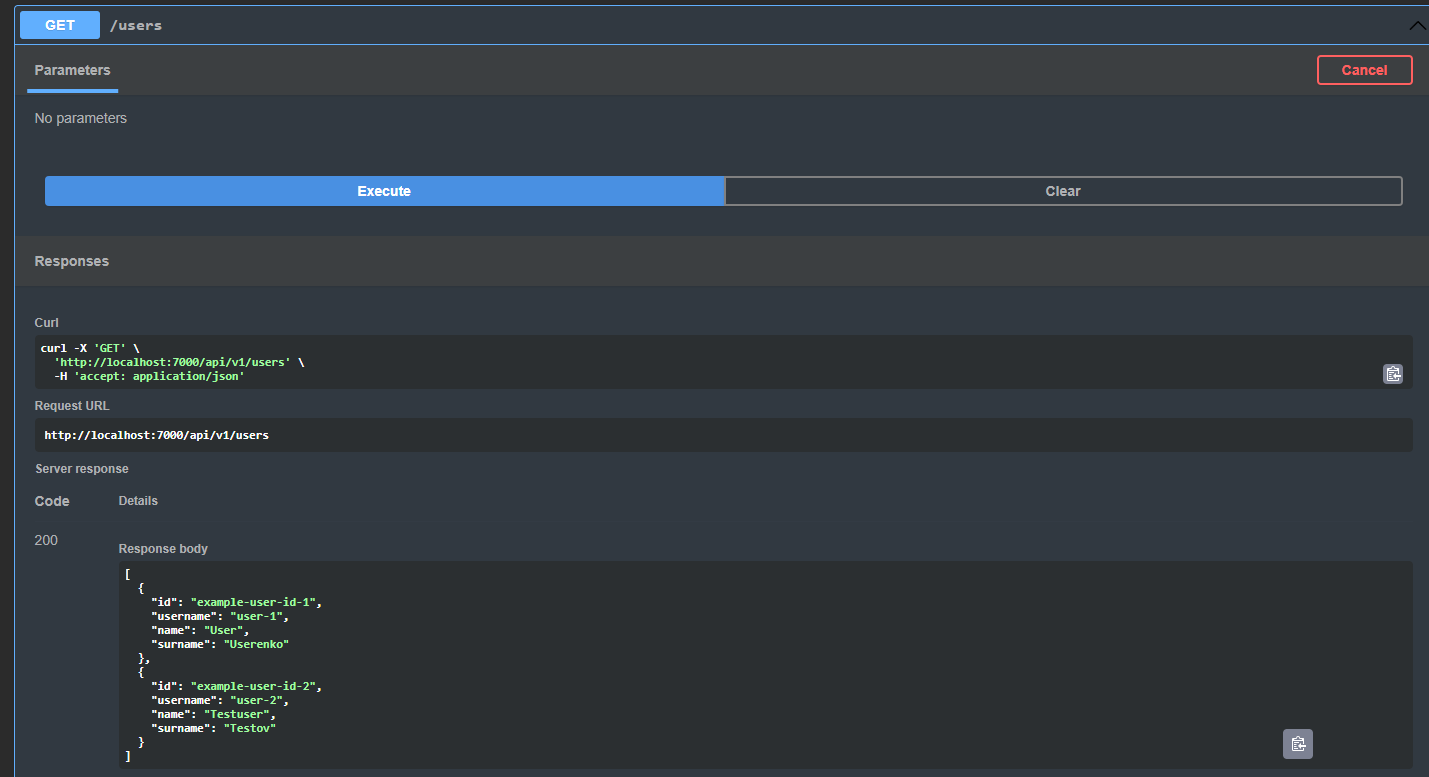
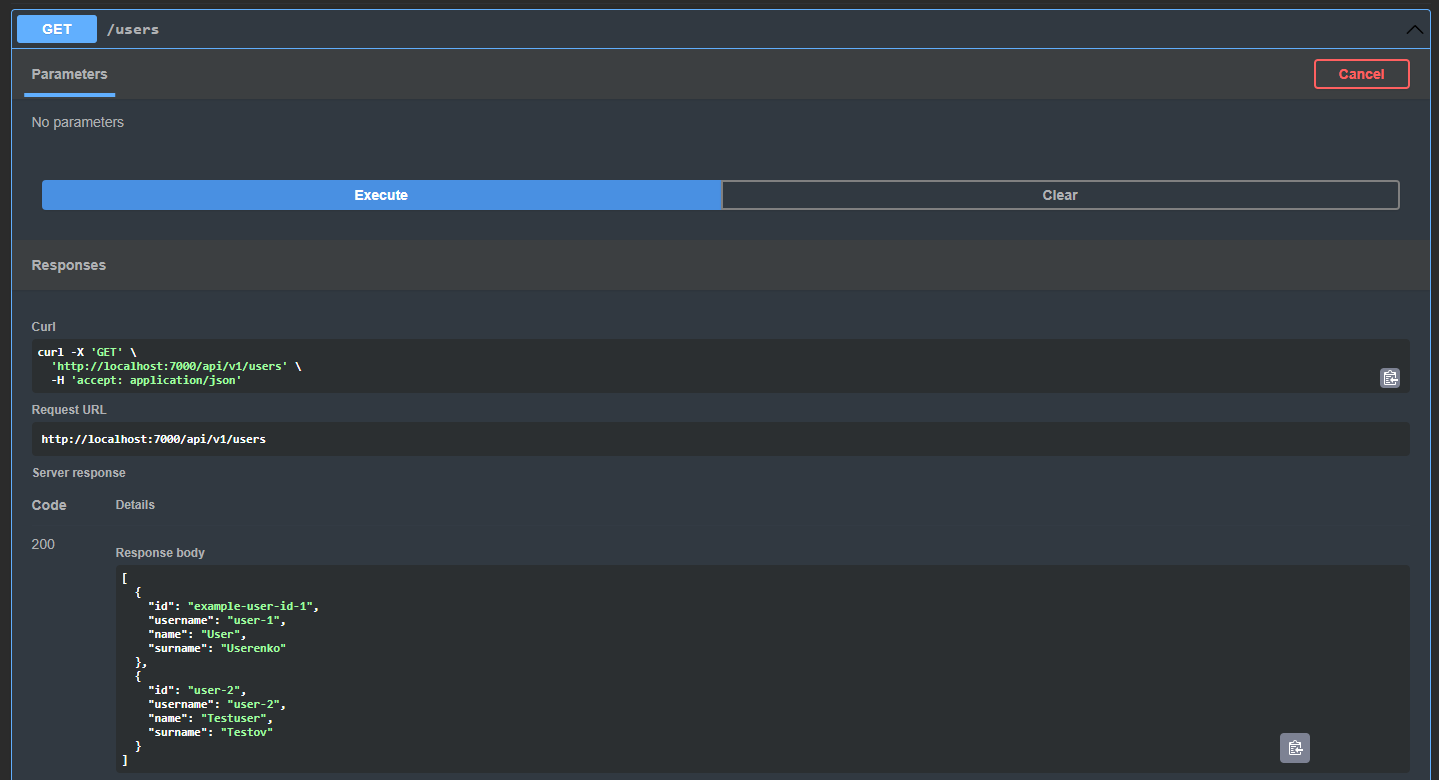
Latest 1.0.0 correction according to information received

diff --git a/src/test/java/test/comparusua/api/impl/BaseContextTest.java b/src/test/java/test/comparusua/api/impl/BaseContextTest.java
@@ -15,18 +15,20 @@ import java.sql.Connection;
 import java.sql.DriverManager;
 import java.sql.PreparedStatement;
 import java.sql.SQLException;
+import java.util.List;
 
 @Slf4j
 @ActiveProfiles({"test"})
 public class BaseContextTest {
 
     public static final String POSTGRES_LATEST_VERSION = "postgres:latest";
-    public static final int DEF_POSTGRES_PORT = 5432;
+    public static final int DEFAULT_POSTGRES_PORT = 5432;
 
     private static final String dbName1 = "data-base-1-test";
     private static final String table1 = "users";
     private static final String user1 = "testuser";
     private static final String pass1 = "testpass";
+
     private static final String dbName2 = "data-base-2-test";
     private static final String table2 = "user_table";
     private static final String user2 = "testuser";
@@ -38,9 +40,9 @@ public class BaseContextTest {
             .withUsername(user1)
             .withPassword(pass1)
             .withEnv("POSTGRES_PASSWORD", pass1)
-            .withExposedPorts(DEF_POSTGRES_PORT)
+            .withExposedPorts(DEFAULT_POSTGRES_PORT)
             .withCreateContainerCmdModifier(cmd -> cmd.withHostConfig(
-                    new HostConfig().withPortBindings(new PortBinding(Ports.Binding.bindPort(5433), new ExposedPort(DEF_POSTGRES_PORT)))
+                    new HostConfig().withPortBindings(new PortBinding(Ports.Binding.bindPort(5433), new ExposedPort(DEFAULT_POSTGRES_PORT)))
             ));
 
     @Container
@@ -49,9 +51,9 @@ public class BaseContextTest {
             .withUsername(user2)
             .withPassword(pass2)
             .withEnv("POSTGRES_PASSWORD", pass2)
-            .withExposedPorts(DEF_POSTGRES_PORT)
+            .withExposedPorts(DEFAULT_POSTGRES_PORT)
             .withCreateContainerCmdModifier(cmd -> cmd.withHostConfig(
-                    new HostConfig().withPortBindings(new PortBinding(Ports.Binding.bindPort(5434), new ExposedPort(DEF_POSTGRES_PORT)))
+                    new HostConfig().withPortBindings(new PortBinding(Ports.Binding.bindPort(5434), new ExposedPort(DEFAULT_POSTGRES_PORT)))
             ));
 
     @BeforeAll
@@ -69,26 +71,38 @@ public class BaseContextTest {
 
     private static void initializeDatabase() {
         try {
-            Class.forName("org.postgresql.Driver");
-
             String url1 = postgresContainer1.getJdbcUrl();
             String url2 = postgresContainer2.getJdbcUrl();
 
-            try (Connection connection1 = DriverManager.getConnection(url1, user1, pass1);
-                 Connection connection2 = DriverManager.getConnection(url2, user2, pass2)) {
+            try (Connection connection1 = DriverManager.getConnection(url1, user1, pass1); Connection connection2 = DriverManager.getConnection(url2, user2, pass2)) {
 
                 createTable(connection1, table1);
                 createTable(connection2, table2);
 
-                insertData(connection1, table1, "id1", "userName1", "name1", "surname1");
-                insertData(connection2, table2, "id2", "userName2", "name2", "surname2");
+                insertData(connection1, table1,
+                        List.of("user_id", "login", "first_name", "last_name"),
+                        List.of("id1", "userName1", "name1", "surname1")
+                );
+                insertData(connection2, table2,
+                        List.of("ldap_login", "name", "surname"),
+                        List.of("userName2", "name2", "surname2")
+                );
             }
-        } catch (ClassNotFoundException | SQLException e) {
-            e.printStackTrace();
+        } catch (SQLException e) {
+            log.error("Error during initializing database", e);
         }
     }
 
     private static void createTable(Connection connection, String tableName) throws SQLException {
+        String sqlTemplate = prepareSqlTemplateForCreatingTable(tableName);
+
+        try (PreparedStatement statement = connection.prepareStatement(sqlTemplate)) {
+            statement.executeUpdate();
+            log.info("Successfully created table: {}", tableName);
+        }
+    }
+
+    private static String prepareSqlTemplateForCreatingTable(String tableName) {
         String columns;
 
         if (table1.equals(tableName)) {
@@ -97,44 +111,40 @@ public class BaseContextTest {
                     "first_name VARCHAR(255) NOT NULL," +
                     "last_name VARCHAR(255) NOT NULL";
         } else if (table2.equals(tableName)) {
-            columns = "ldap_id VARCHAR(255) PRIMARY KEY NOT NULL," +
-                    "ldap_login VARCHAR(255) NOT NULL," +
+            columns = "ldap_login VARCHAR(255) PRIMARY KEY NOT NULL," +
                     "name VARCHAR(255) NOT NULL," +
                     "surname VARCHAR(255) NOT NULL";
         } else {
             throw new IllegalArgumentException("Unknown table name: " + tableName);
         }
-
-        String sqlTemplate = String.format("CREATE TABLE IF NOT EXISTS %s (%s)", tableName, columns);
-
-        try (PreparedStatement statement = connection.prepareStatement(sqlTemplate)) {
-            statement.executeUpdate();
-            log.info("Successfully created table: {}", tableName);
-        }
+        return String.format("CREATE TABLE IF NOT EXISTS %s (%s)", tableName, columns);
     }
 
-    private static void insertData(Connection connection, String tableName, String id, String login, String firstName, String lastName) throws SQLException {
-        String columns = getColumnsForTable(tableName);
-        String sqlTemplate = String.format("INSERT INTO %s %s VALUES (?, ?, ?, ?)", tableName, columns);
+    private static void insertData(Connection connection, String tableName, List<String> columnNames, List<String> values) throws SQLException {
+        String sqlTemplate = prepareSqlTemplateForInsertingDataInTable(tableName, columnNames, values);
 
         try (PreparedStatement statement = connection.prepareStatement(sqlTemplate)) {
-            statement.setString(1, id);
-            statement.setString(2, login);
-            statement.setString(3, firstName);
-            statement.setString(4, lastName);
-
+            for (int i = 0; i < values.size(); i++) {
+                statement.setString(i + 1, values.get(i));
+            }
             statement.executeUpdate();
             log.info("Successfully inserted data in table: {}", tableName);
         }
     }
 
-    private static String getColumnsForTable(String tableName) {
-        if (table1.equals(tableName)) {
-            return "(user_id, login, first_name, last_name)";
-        } else if (table2.equals(tableName)) {
-            return "(ldap_id, ldap_login, name, surname)";
-        } else {
-            throw new IllegalArgumentException("Unknown table name: " + tableName);
+    private static String prepareSqlTemplateForInsertingDataInTable(String tableName, List<String> columnNames, List<String> values) {
+        StringBuilder sqlValues = new StringBuilder("VALUES (");
+        StringBuilder columns = new StringBuilder("(");
+
+        for (int i = 0; i < values.size(); i++) {
+            if (i != values.size() - 1) {
+                sqlValues.append("?, ");
+                columns.append(columnNames.get(i)).append(", ");
+            } else {
+                sqlValues.append("?)");
+                columns.append(columnNames.get(i)).append(")");
+            }
         }
+        return String.format("INSERT INTO %s %s %s", tableName, columns, sqlValues);
     }
 }

diff --git a/src/test/java/test/comparusua/repository/JdbcUserRepositoryImplTest.java b/src/test/java/test/comparusua/repository/JdbcUserRepositoryImplTest.java
@@ -1,0 +1,38 @@
+package test.comparusua.repository;
+
+import org.junit.jupiter.api.Test;
+import org.mockito.Mockito;
+import org.springframework.jdbc.core.BeanPropertyRowMapper;
+import org.springframework.jdbc.core.JdbcTemplate;
+import test.comparusua.config.property.DataSourceInfo;
+import test.comparusua.model.User;
+
+import java.util.List;
+
+import static org.junit.jupiter.api.Assertions.assertEquals;
+import static org.mockito.ArgumentMatchers.any;
+import static org.mockito.ArgumentMatchers.anyString;
+import static org.mockito.Mockito.verify;
+import static org.mockito.Mockito.when;
+import static test.comparusua.util.StubModelHelper.stubDataSourceInfo;
+import static test.comparusua.util.StubModelHelper.stubUsers;
+
+class JdbcUserRepositoryImplTest {
+
+    private final JdbcTemplate jdbcTemplate = Mockito.mock(JdbcTemplate.class);
+    private final JdbcUserRepositoryImpl userRepository = new JdbcUserRepositoryImpl(jdbcTemplate);
+
+    @Test
+    void getAllUsersByDatasourceName_ok() {
+        DataSourceInfo dataSourceInfo = stubDataSourceInfo();
+        List<User> expectedUsers = stubUsers();
+
+        when(jdbcTemplate.query(anyString(), any(BeanPropertyRowMapper.class))).thenReturn(expectedUsers);
+
+        List<User> actualUsers = userRepository.getAllUsersByDatasourceName(dataSourceInfo);
+
+        assertEquals(expectedUsers, actualUsers);
+
+        verify(jdbcTemplate).query(anyString(), any(BeanPropertyRowMapper.class));
+    }
+}

diff --git a/src/test/java/test/comparusua/util/StubModelHelper.java b/src/test/java/test/comparusua/util/StubModelHelper.java
@@ -5,7 +5,9 @@ import test.comparusua.api.model.UserDto;
 import test.comparusua.config.property.DataSourceInfo;
 import test.comparusua.model.User;
 
+import java.util.HashMap;
 import java.util.List;
+import java.util.Map;
 
 import static org.apache.commons.lang3.RandomStringUtils.randomAlphabetic;
 
@@ -14,6 +16,26 @@ public class StubModelHelper {
     private static final Integer LENGTH_TO_RANDOM = 10;
 
     private StubModelHelper() {
+    }
+
+    public static DataSourceInfo stubDataSourceInfo() {
+        val dataSourceInfo = new DataSourceInfo();
+        dataSourceInfo.setName(randomAlphabetic(LENGTH_TO_RANDOM));
+        dataSourceInfo.setStrategy(randomAlphabetic(LENGTH_TO_RANDOM));
+        dataSourceInfo.setUrl(randomAlphabetic(LENGTH_TO_RANDOM));
+        dataSourceInfo.setTable(randomAlphabetic(LENGTH_TO_RANDOM));
+        dataSourceInfo.setUser(randomAlphabetic(LENGTH_TO_RANDOM));
+        dataSourceInfo.setPassword(randomAlphabetic(LENGTH_TO_RANDOM));
+
+        Map<String, String> mapping = new HashMap<>();
+        mapping.put("id", randomAlphabetic(LENGTH_TO_RANDOM));
+        mapping.put("username", randomAlphabetic(LENGTH_TO_RANDOM));
+        mapping.put("name", randomAlphabetic(LENGTH_TO_RANDOM));
+        mapping.put("surname", randomAlphabetic(LENGTH_TO_RANDOM));
+
+        dataSourceInfo.setMapping(mapping);
+
+        return dataSourceInfo;
     }
 
     public static List<User> stubUsers() {

diff --git a/src/main/java/test/comparusua/repository/JdbcUserRepositoryImpl.java b/src/main/java/test/comparusua/repository/JdbcUserRepositoryImpl.java
@@ -46,6 +46,7 @@ public class JdbcUserRepositoryImpl implements UserRepository {
 
     private String buildSqlQuery(DataSourceInfo dataSourceInfo) {
         val selectFields = new StringBuilder();
+
         for (Map.Entry<String, String> entry : dataSourceInfo.getMapping().entrySet()) {
             selectFields.append(entry.getValue()).append(AS).append(entry.getKey()).append(COMA_AND_SPACE);
         }

diff --git a/src/main/java/test/comparusua/config/property/DataSourceInfo.java b/src/main/java/test/comparusua/config/property/DataSourceInfo.java
@@ -2,7 +2,7 @@ package test.comparusua.config.property;
 
 import lombok.Data;
 
-import java.util.HashMap;
+import java.util.Map;
 
 @Data
 public class DataSourceInfo {
@@ -13,5 +13,5 @@ public class DataSourceInfo {
     private String table;
     private String user;
     private String password;
-    private HashMap<String, String> mapping;
+    private Map<String, String> mapping;
 }

diff --git a/README.md b/README.md
@@ -1,4 +1,5 @@
 # COMPARUS UA Test Project: Done by Hryhorii Yershov
+
 ### 1.0.0
 
 Result of working:
